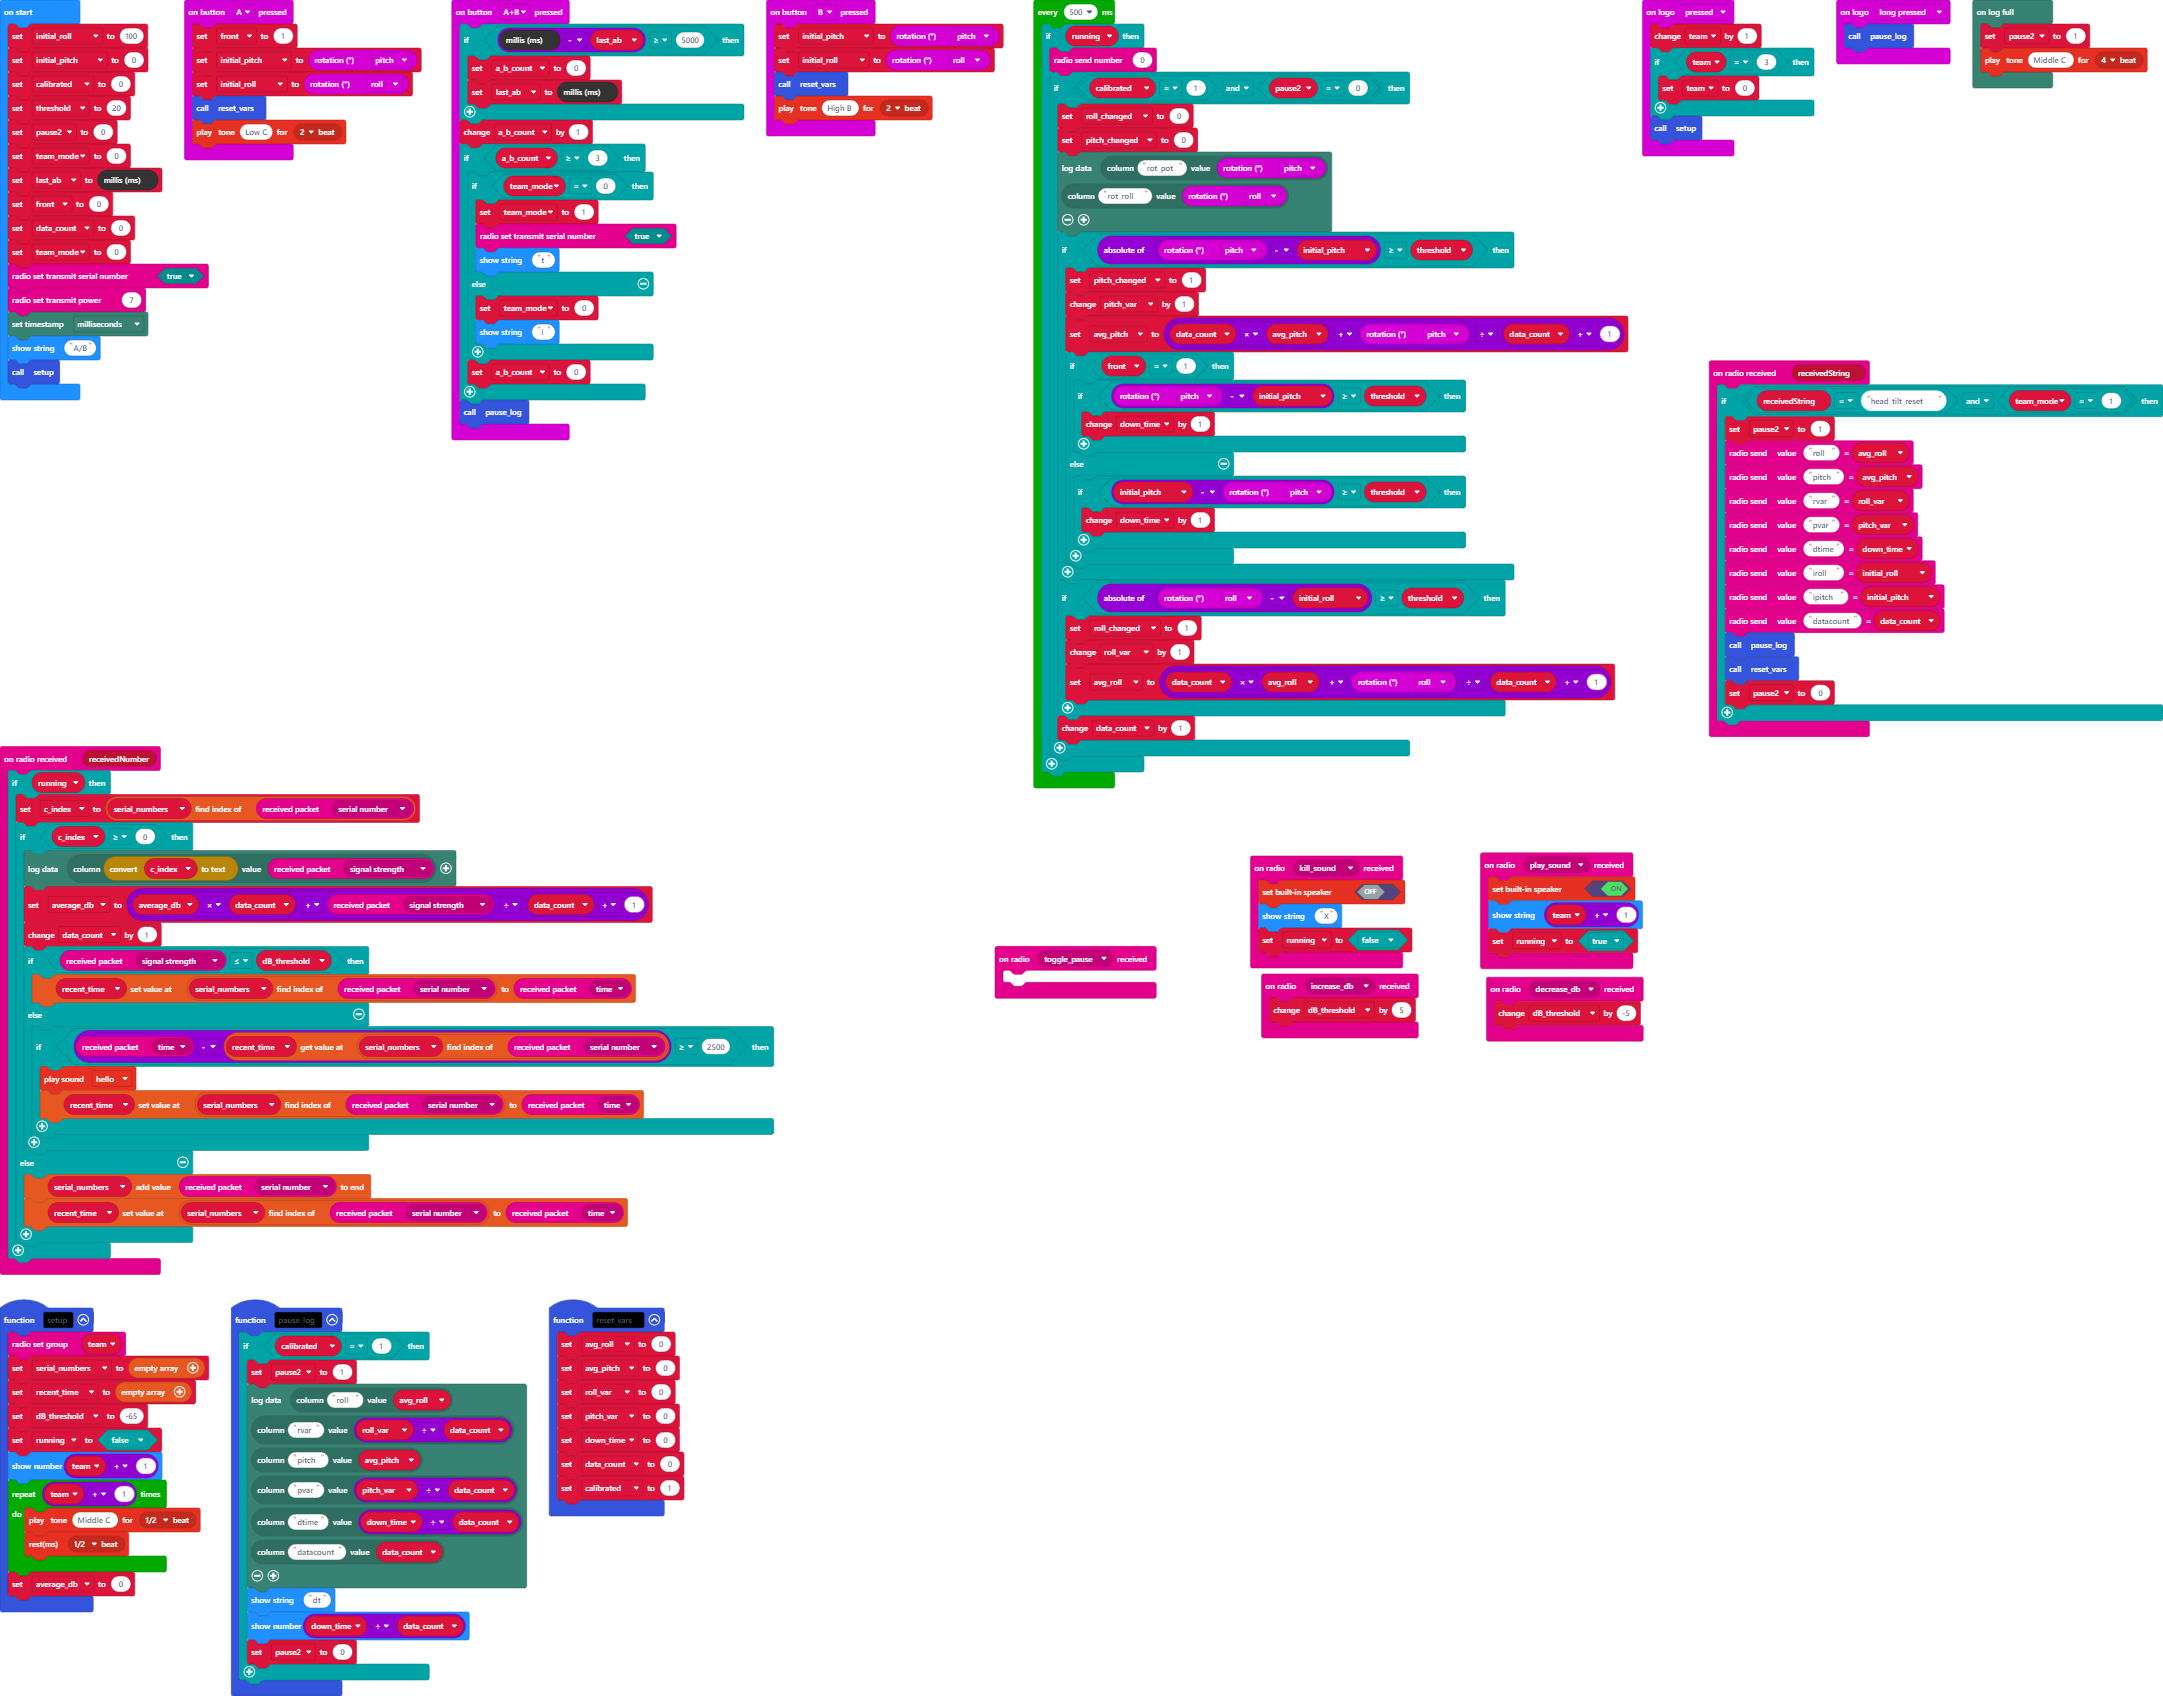
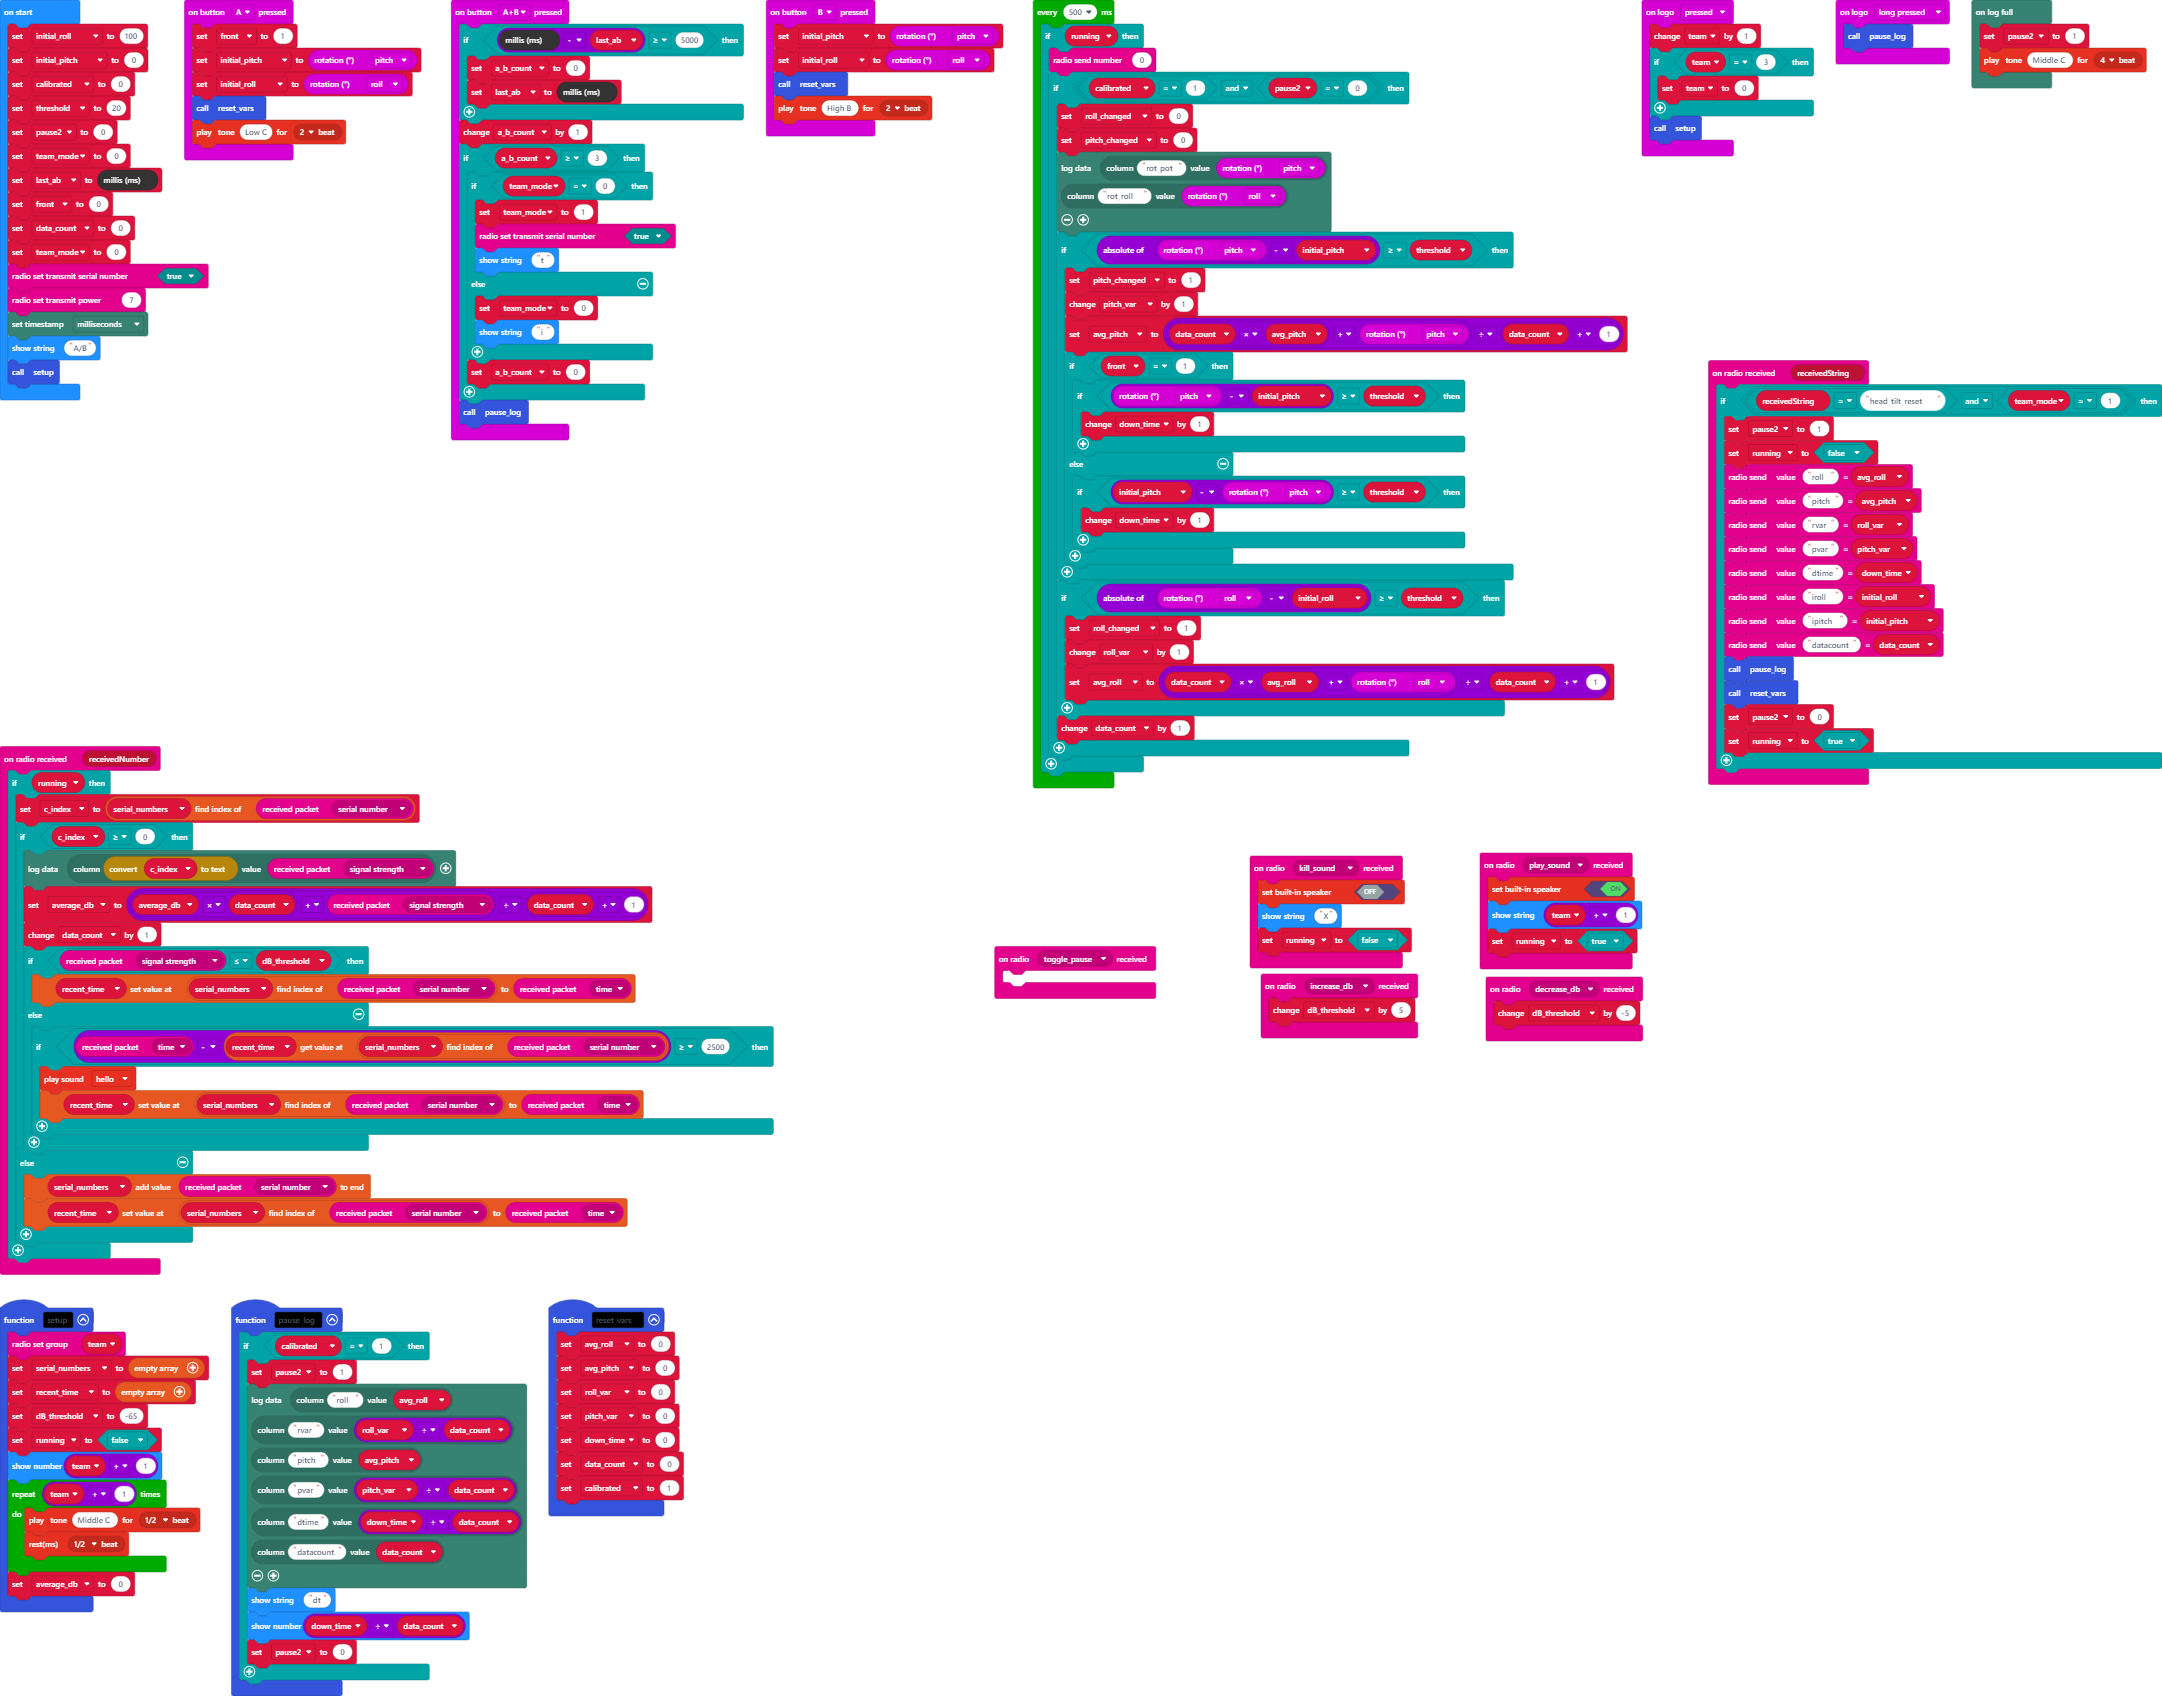
Update main.blocks, main.ts

Changed region(s): [[0.7747, 0.25, 1.0, 0.4688], [0.6818, 0.5, 0.7438, 0.5625], [0.2169, 0.125, 0.2479, 0.1562]]

diff --git a/main.ts b/main.ts
@@ -99,6 +99,7 @@ input.onButtonPressed(Button.AB, function () {
 radio.onReceivedString(function (receivedString) {
     if (receivedString == "head_tilt_reset" && team_mode == 1) {
         pause2 = 1
+        running = false
         radio.sendValue("roll", avg_roll)
         radio.sendValue("pitch", avg_pitch)
         radio.sendValue("rvar", roll_var)
@@ -110,6 +111,7 @@ radio.onReceivedString(function (receivedString) {
         pause_log()
         reset_vars()
         pause2 = 0
+        running = true
     }
 })
 input.onButtonPressed(Button.B, function () {
